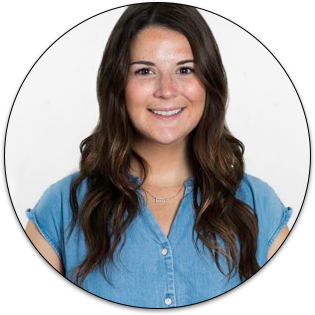
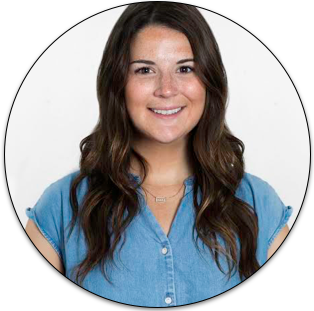
styling changes
style changes to portfolio

diff --git a/burnt.html b/burnt.html
@@ -28,7 +28,7 @@
             <li><a href="index.html">Work</a></li>
             <li><a href="about.html">About</a></li>
             <li><a href="#contact">Contact</a></li>
-            <li><a href="javascript:void(0);" class='icon' onclick="myFunction()"><i class="fas fa-bars"></i></a></li>
+            <li><a href="javascript:void(0);" class='icon' onclick="menuToggle()"><i class="fas fa-bars"></i></a></li>
           </ul>
         </nav>
       </div>
@@ -112,9 +112,9 @@
       </div>
     </div>
     <div class="row">
-      <div class="left">
+      <div class="row">
         <h2> Getting the Feel of It </h2>
-        <h4> After creating my lo-fidelity frames, I crafted the color palette as well as typography. I wanted to give the app an overall vintage/curated feeling that was soft yet trustworthy. </h4>
+        <h4> After creating my lo-fidelity frames, I crafted the color palette and typography. I wanted to give the app an overall vintage/curated feeling that was soft yet trustworthy. </h4>
       </div>
     </div>
     <div class="row">

diff --git a/about.html b/about.html
@@ -39,13 +39,11 @@
   <main>
     <div id="about">
       <div class="center">
-        <div class="container">
-          <div class="profile-picture">
-            <picture>
-              <source srcset="img/about-page/profile-pic.png" media="(max-width:767px)">
-              <img src="img/about-page/profile-pic@2x.png" alt="profile pic">
-            </picture>
-          </div>
+        <div class="text-container">
+          <picture>
+            <source srcset="img/about-page/profile-pic.png" media="(max-width:767px)">
+            <img src="img/about-page/profile-pic@2x.png" alt="profile pic">
+          </picture>
         </div>
       </div>
     </div>
@@ -68,8 +66,8 @@
     <div id="skills">
       <div class="container">
         <div class="center">
-        <h2> Skills & Tools </h2>
-      </div>
+          <h2> Skills & Tools </h2>
+        </div>
         <div class="row">
           <div class="col-md-6 col-lg-7">
             <h3> Relevant Skills </h3>

diff --git a/recipebook.html b/recipebook.html
@@ -28,7 +28,7 @@
             <li><a href="index.html">Work</a></li>
             <li><a href="about.html">About</a></li>
             <li><a href="#contact">Contact</a></li>
-            <li><a href="javascript:void(0);" class='icon' onclick="myFunction()"><i class="fas fa-bars"></i></a></li>
+            <li><a href="javascript:void(0);" class='icon' onclick="menuToggle()"><i class="fas fa-bars"></i></a></li>
           </ul>
         </nav>
       </div>
@@ -47,7 +47,6 @@
         <img src="img/recipebook/real-gold@2x.png" alt="gold iphone">
       </picture>
     </div>
-    <div class="text-container">
       <div class="center">
         <h2> Why Recipe Book?</h2>
         <ul>
@@ -56,7 +55,6 @@
         <li> Users can quickly find alternative recipes to accommodate different dietary needs</li>
       </ul>
       </div>
-    </div>
     <div class="center">
       <h2> The Journey </h2>
     </div>

diff --git a/informed.html b/informed.html
@@ -28,7 +28,7 @@
             <li><a href="index.html">Work</a></li>
             <li><a href="about.html">About</a></li>
             <li><a href="#contact">Contact</a></li>
-            <li><a href="javascript:void(0);" class='icon' onclick="myFunction()"><i class="fas fa-bars"></i></a></li>
+            <li><a href="javascript:void(0);" class='icon' onclick="menuToggle()"><i class="fas fa-bars"></i></a></li>
           </ul>
         </nav>
       </div>

diff --git a/css/style.css b/css/style.css
@@ -232,10 +232,9 @@ nav > ul > li > a:active {
 }
 
 .profile-picture img {
-  height: 500px;
-  width: 500px;
+  height: 300px;
+  width: 300px;
 }
-
 
 /* 1.8 */
 
@@ -270,6 +269,7 @@ nav > ul > li > a:active {
 
 nav > ul > li {
   display: inline-block;
+  list-style-position: inside;
 }
 
 .navtoggle li:not(:last-child) {
